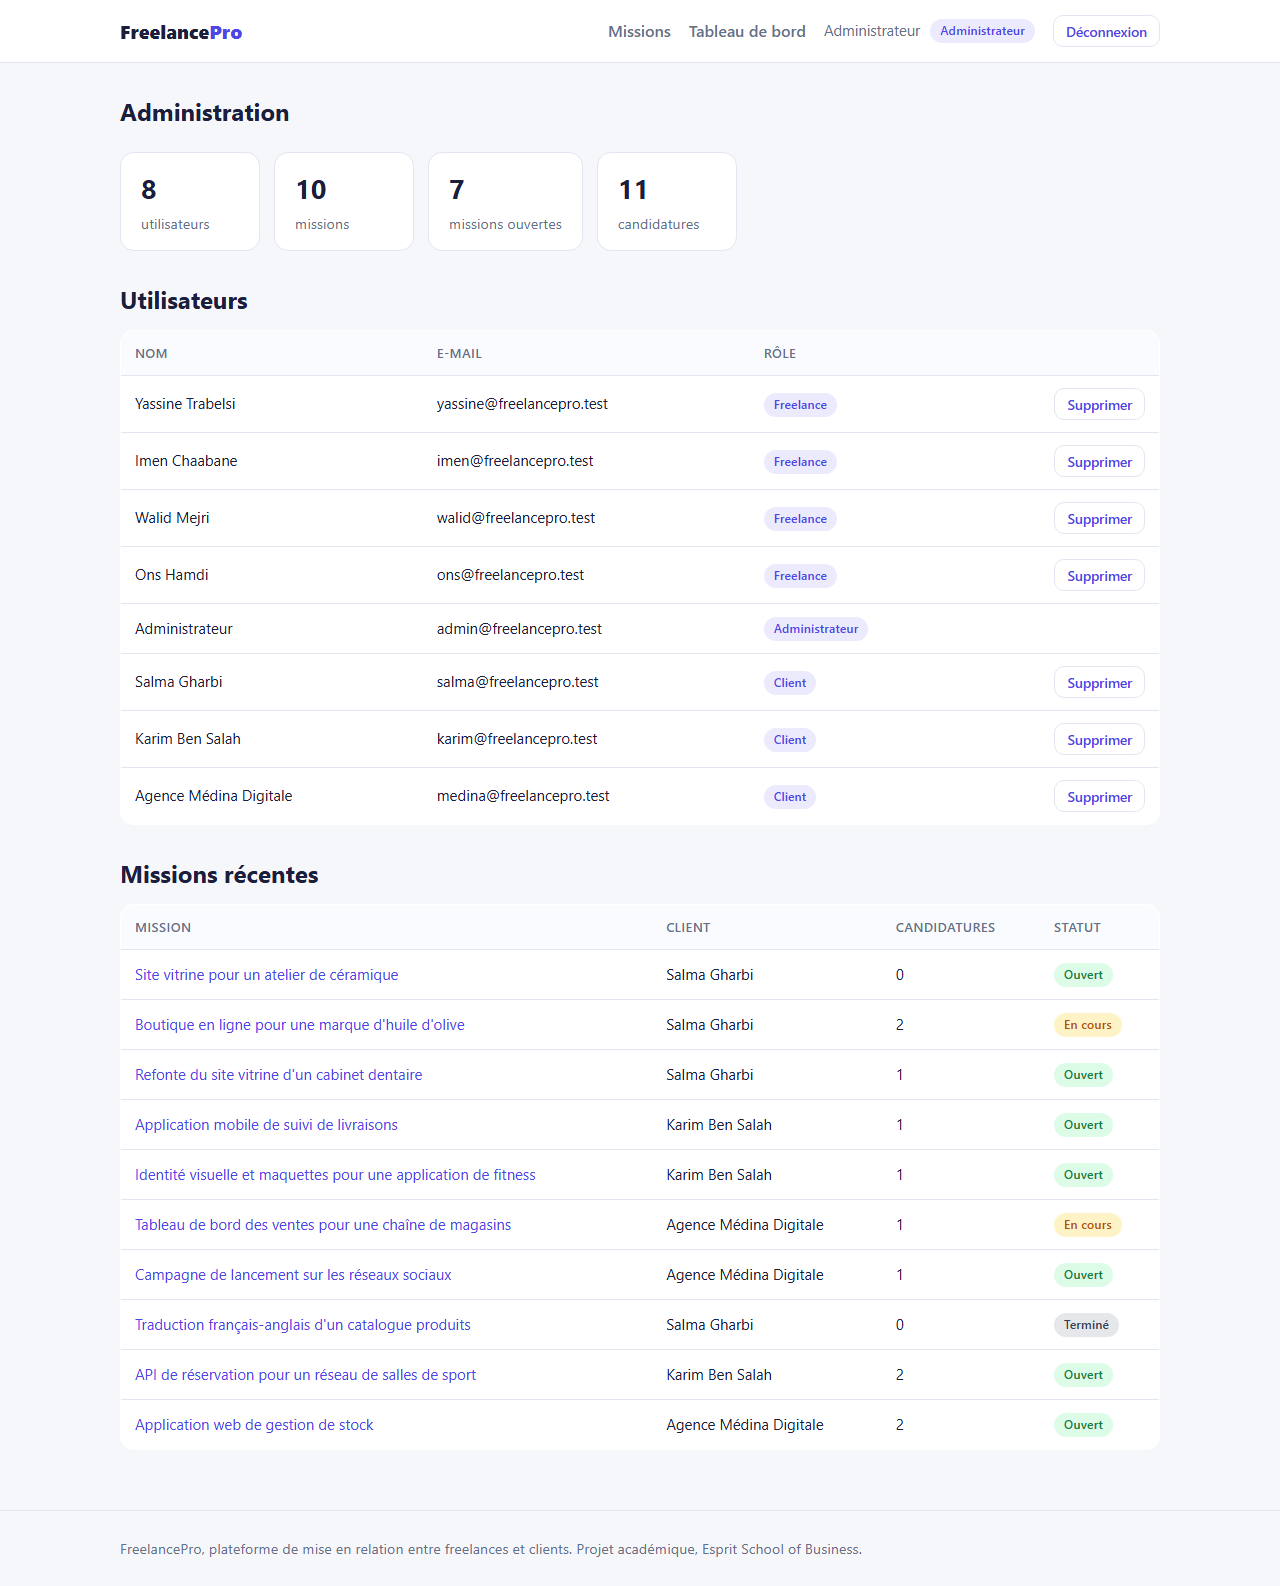
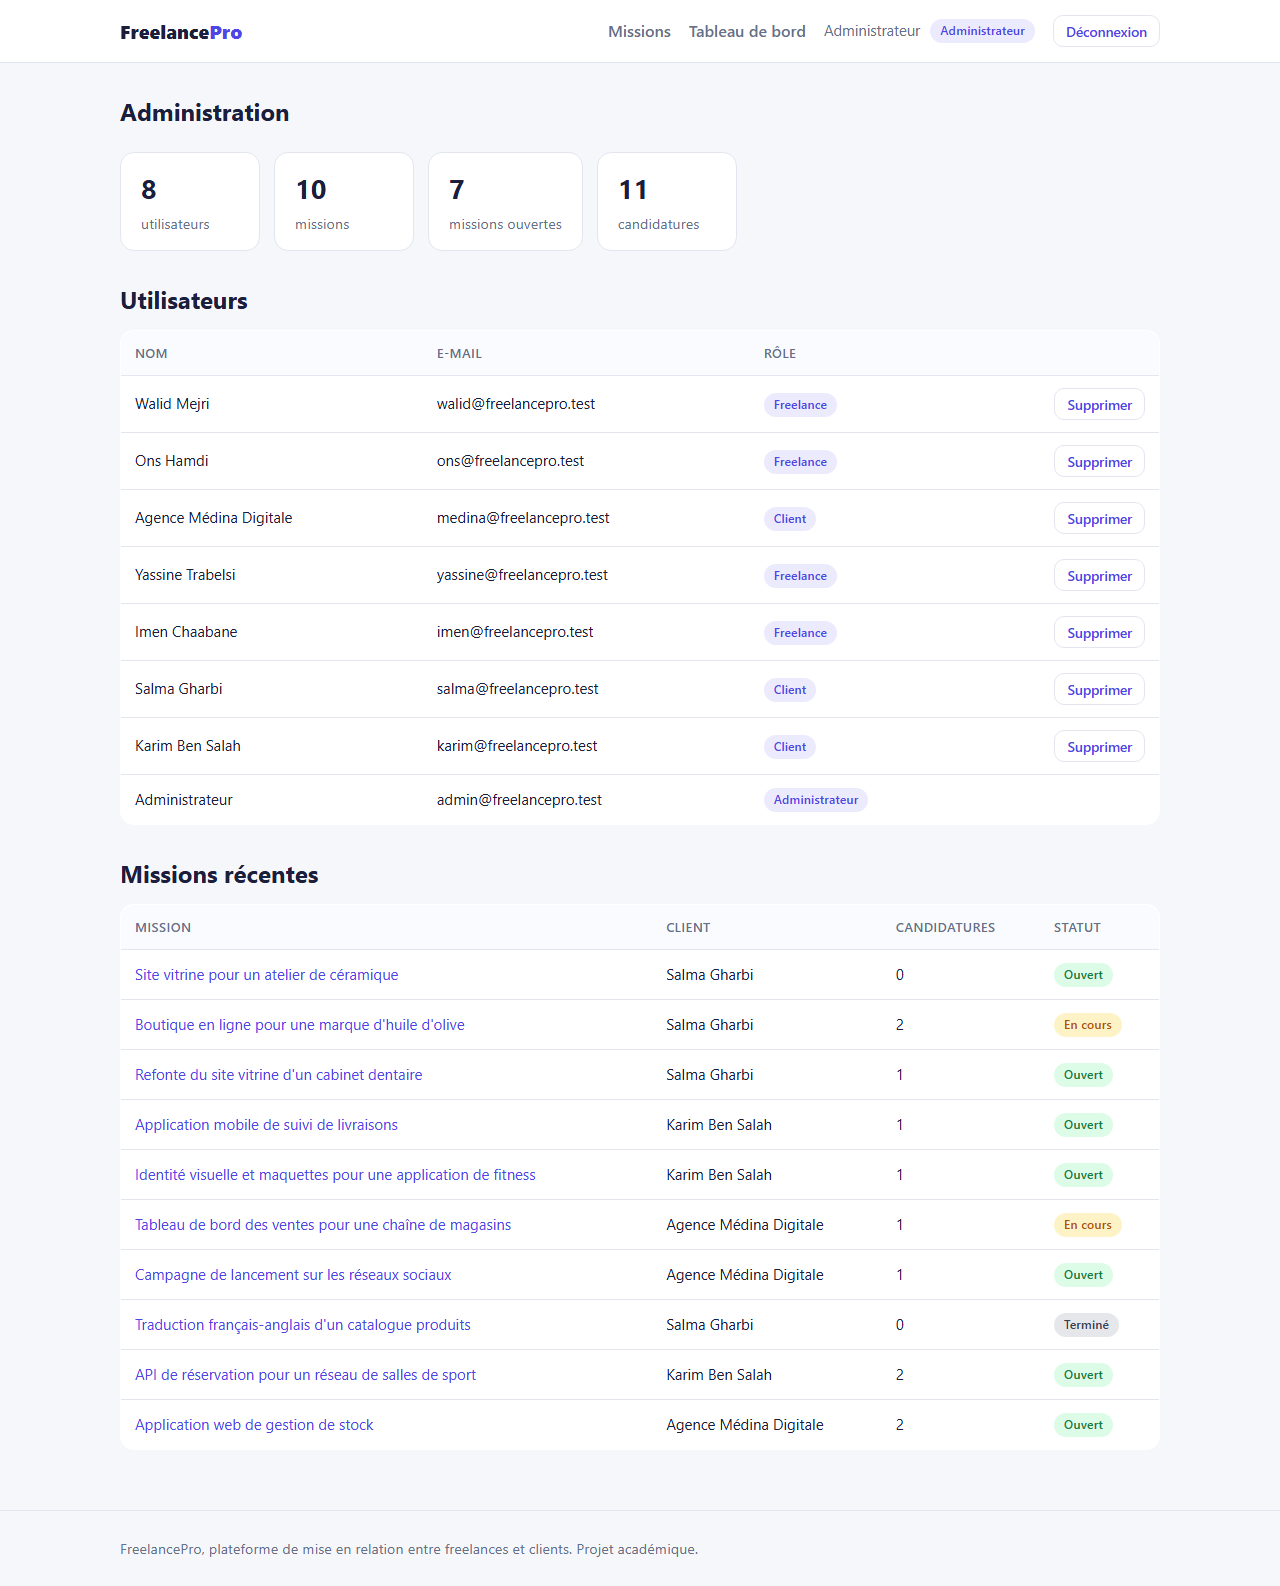
chore: retire la mention de l'ecole du site, des demos et des captures

diff --git a/index.html b/index.html
@@ -13,7 +13,7 @@
 <meta property="og:url" content="https://rania-dridi.github.io/">
 <meta property="og:image" content="https://rania-dridi.github.io/assets/og.png">
 <meta name="twitter:card" content="summary_large_image">
-<script type="application/ld+json">{"@context": "https://schema.org", "@type": "Person", "name": "Rania Dridi", "jobTitle": "Développeuse full-stack", "url": "https://rania-dridi.github.io/", "email": "mailto:randridi131117@gmail.com", "sameAs": ["https://www.linkedin.com/in/rania-dridi-a5a733397/", "https://github.com/Rania-Dridi"], "alumniOf": {"@type": "CollegeOrUniversity", "name": "Esprit School of Business"}, "knowsAbout": ["React", "TypeScript", "Go", "Python", "Laravel", "PostgreSQL", "Test automation"]}</script>
+<script type="application/ld+json">{"@context": "https://schema.org", "@type": "Person", "name": "Rania Dridi", "jobTitle": "Développeuse full-stack", "url": "https://rania-dridi.github.io/", "email": "mailto:randridi131117@gmail.com", "sameAs": ["https://www.linkedin.com/in/rania-dridi-a5a733397/", "https://github.com/Rania-Dridi"], "knowsAbout": ["React", "TypeScript", "Go", "Python", "Laravel", "PostgreSQL", "Test automation"]}</script>
 <title>Rania Dridi — Développeuse full-stack</title>
 <link rel="preconnect" href="https://fonts.googleapis.com">
 <link rel="preconnect" href="https://fonts.gstatic.com" crossorigin>

diff --git a/demo/freelancepro/app.js b/demo/freelancepro/app.js
@@ -44,7 +44,7 @@ function layout(inner) {
   <header class="nav"><div class="container"><a class="brand" href="#/">Freelance<span>Pro</span></a>
     <nav class="nav-links"><a class="opt" href="#/missions">Missions</a>${links}</nav></div></header>
   <main class="container">${msg}${inner}</main>
-  <footer><div class="container">FreelancePro, plateforme de mise en relation entre freelances et clients. Projet académique, Esprit School of Business.</div></footer>`;
+  <footer><div class="container">FreelancePro, plateforme de mise en relation entre freelances et clients. Projet académique.</div></footer>`;
 }
 
 const pages = {
